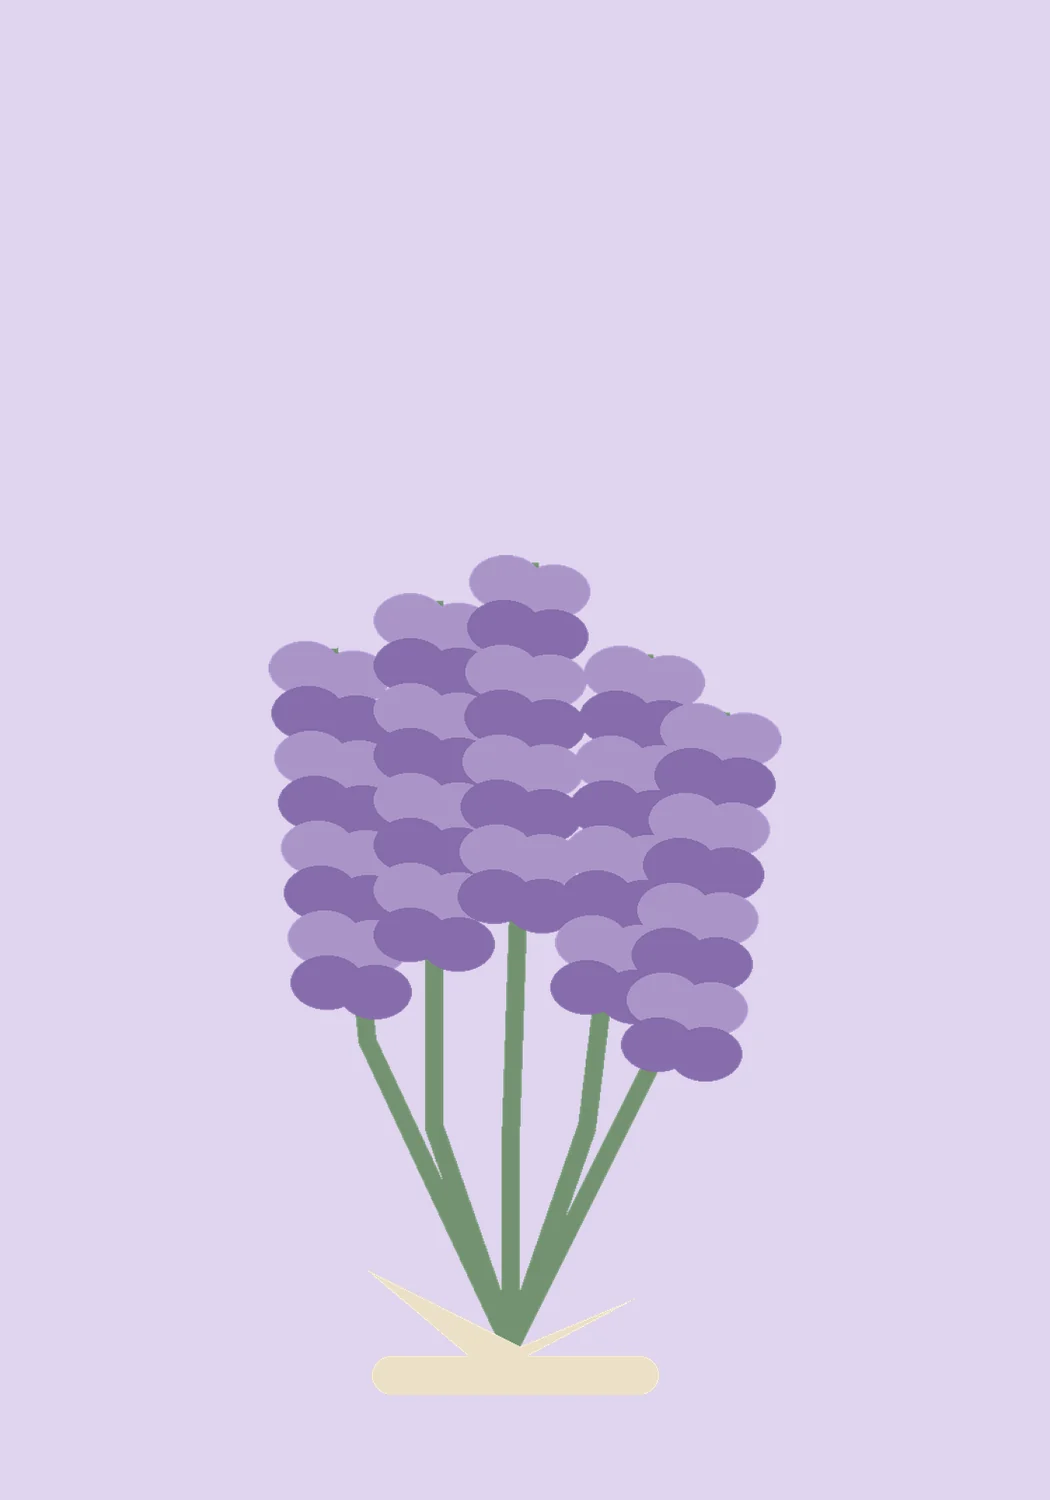
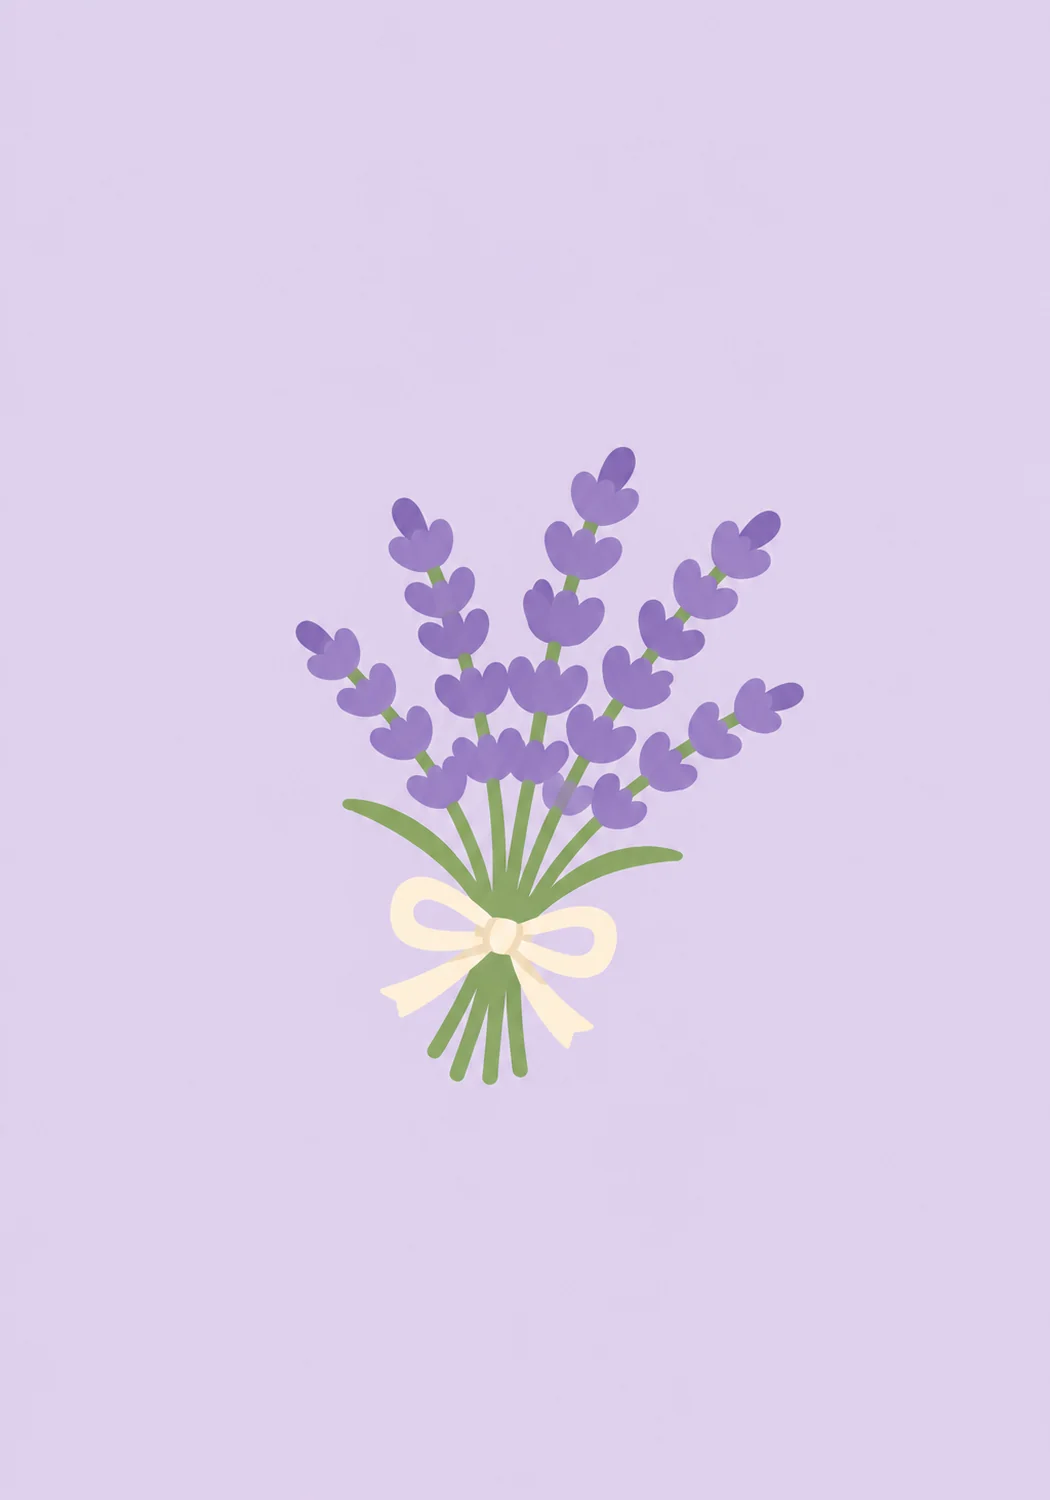
粉彩北海道封面換新（薰衣草）
Claude-Session: https://claude.ai/code/session_01NfU4Y1XG581Dp9VMgqLd7E

Changed region(s): [[0.2438, 0.276, 0.7619, 0.9507]]

diff --git a/index.html b/index.html
@@ -794,7 +794,7 @@ const ART={img:{},failed:new Set(),busy:{}};
 /* 粉彩插畫的底色：封面字用同色系深色，換主題色也不會出現藍底紅字 */
 /* 物件太低會壓到下方中文標題：往上移幾 px（頁面高 794），空出來的地方用底色補 */
 const ARTUP={'pastel-kyoto':110};
-const ARTBG={'pastel-kyoto':'#f6d0c6','pastel-osaka':'#fce4ab','pastel-tokyo':'#bcd8ee','pastel-hokkaido':'#e0d5ef','pastel-okinawa':'#c7e6e0','pastel-nara':'#f3dcbf','pastel-fukuoka':'#cee5d6','pastel-japan':'#c5d9eb'};
+const ARTBG={'pastel-kyoto':'#f6d0c6','pastel-osaka':'#fce4ab','pastel-tokyo':'#bcd8ee','pastel-hokkaido':'#ded1ec','pastel-okinawa':'#c7e6e0','pastel-nara':'#f3dcbf','pastel-fukuoka':'#cee5d6','pastel-japan':'#c5d9eb'};
 /* 依行程猜城市：建立行程時選的熱門城市 → 都道府縣 → 標題文字；都沒有但在日本 → 日本通用 */
 function artCity(t){const ks=Object.keys(CVART_ZH).filter(k=>k!=='japan');
   for(const c of t.cities||[]){const k=ks.find(k=>CVART_ZH[k]===c);if(k)return k}
